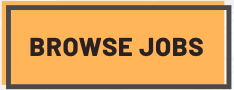
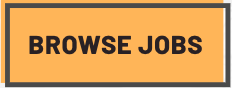
1/6

Changed region(s): [[0.0, 0.0, 0.9957, 1.0], [0.1207, 0.3864, 0.875, 0.6364]]

diff --git a/style/mob.css b/style/mob.css
@@ -27,8 +27,8 @@ hr {
   width: 100%;
   height: 35vh;
   background: url("../src/HRBreakoutRoom_files/20210126_223132_0001.png");
-  background-position: center;
-  background-size: 100% 100%;
+  background-position: 75% 50%;
+  background-size: cover;
 }
 
 .first-box nav {
@@ -87,8 +87,14 @@ hr {
   width: 100%;
 }
 
-.first-box #banner .banner-details #clicks img {
+.first-box #banner .banner-details #clicks a {
   width: 40%;
+  height: inherit;
+}
+
+.first-box #banner .banner-details #clicks a img {
+  width: 40%;
+  height: inherit;
 }
 
 .sec-box {
@@ -187,6 +193,8 @@ hr {
 .sec-box #core-service #serv-pics div {
   padding: 1rem;
   width: 100%;
+  -o-object-fit: cover;
+     object-fit: cover;
 }
 
 .sec-box #core-service #serv-pics div h3 {
@@ -304,7 +312,7 @@ hr {
 }
 
 .fourth-box #meet-the-team #team-pics div {
-  padding: 2rem;
+  padding: 1rem;
   width: 25%;
 }
 
@@ -315,7 +323,7 @@ hr {
 }
 
 .fourth-box #meet-the-team #team-pics div h3 {
-  font-size: 1.8rem;
+  font-size: 1.6rem;
   font-weight: 600;
 }
 
@@ -326,11 +334,11 @@ hr {
 
 .fourth-box #meet-the-team #team-pics div p {
   font-size: 1.6rem;
+  text-align: justify;
 }
 
 .fifth-box {
   width: 100%;
-  padding-bottom: 2vh;
   background: -webkit-gradient(linear, left top, left bottom, from(rgba(255, 255, 255, 0.9)), to(rgba(255, 255, 255, 0.9)));
   background: linear-gradient(rgba(255, 255, 255, 0.9), rgba(255, 255, 255, 0.9));
 }
@@ -354,7 +362,7 @@ hr {
 }
 
 .fifth-box #testimonials #testi-pics div {
-  padding: 4rem;
+  padding: 4rem 4rem 0 4rem;
   min-width: 40%;
 }
 
@@ -716,17 +724,17 @@ footer .contact-us .contact .schedule button {
   }
   .fifth-box {
     width: 100%;
-    height: 110vh;
-    padding-bottom: 10vh;
+    padding-bottom: 5vh;
     background: -webkit-gradient(linear, left top, left bottom, from(rgba(255, 255, 255, 0.9)), to(rgba(255, 255, 255, 0.9)));
     background: linear-gradient(rgba(255, 255, 255, 0.9), rgba(255, 255, 255, 0.9));
   }
   .fifth-box #testimonials {
     text-align: center;
+    height: auto;
   }
   .fifth-box #testimonials h1 {
     font-size: 8rem;
-    padding: 15rem 0 0;
+    padding: 10rem 0 0;
   }
   .fifth-box #testimonials #testi-pics {
     display: -webkit-box;
@@ -860,7 +868,7 @@ footer .contact-us .contact .schedule button {
     padding: 2rem 2rem;
   }
   footer .contact-us .contact h2 {
-    font-size: 2.4rem;
+    font-size: 2.2rem;
     font-weight: 400;
   }
   footer .contact-us .contact p {

diff --git a/style/mob.scss b/style/mob.scss
@@ -33,8 +33,8 @@ hr {
   height: 35vh;
   //   background: url("../src/HRBreakoutRoom_files/20210126_223132_0001.png");
   background: url("../src/HRBreakoutRoom_files/20210126_223132_0001.png");
-  background-position: center;
-  background-size: 100% 100%;
+  background-position: 75% 50%;
+  background-size: cover;
   //   border-bottom: 5px solid #000000;
 
   nav {
@@ -78,8 +78,13 @@ hr {
         }
       }
       #clicks {
-        img {
+        a {
           width: 40%;
+          height: inherit;
+          img {
+            width: 40%;
+            height: inherit;
+          }
         }
       }
     }
@@ -163,6 +168,7 @@ hr {
       div {
         padding: 1rem;
         width: 100%;
+        object-fit: cover;
         h3 {
           font-size: 2.1rem;
           font-weight: 700;
@@ -263,7 +269,7 @@ hr {
       display: flex;
       padding: 2rem 2rem 4rem;
       div {
-        padding: 2rem;
+        padding: 1rem;
         width: 25%;
         img {
           width: 60%;
@@ -271,7 +277,7 @@ hr {
           border: 8px #dddddd Solid;
         }
         h3 {
-          font-size: 1.8rem;
+          font-size: 1.6rem;
           font-weight: 600;
         }
         h4 {
@@ -280,6 +286,7 @@ hr {
         }
         p {
           font-size: 1.6rem;
+          text-align: justify;
         }
       }
     }
@@ -290,7 +297,7 @@ hr {
 .fifth-box {
   width: 100%;
   //   height: 110vh;
-  padding-bottom: 2vh;
+  //   padding-bottom: 2vh;
 
   background: linear-gradient(
     rgba(255, 255, 255, 0.9),
@@ -310,7 +317,7 @@ hr {
       width: 100%;
       //   padding: 10rem;
       div {
-        padding: 4rem;
+        padding: 4rem 4rem 0 4rem;
         min-width: 40%;
         img {
           width: 15vw;
@@ -668,8 +675,8 @@ footer {
   }
   .fifth-box {
     width: 100%;
-    height: 110vh;
-    padding-bottom: 10vh;
+    // height: 110vh;
+    padding-bottom: 5vh;
 
     background: linear-gradient(
       rgba(255, 255, 255, 0.9),
@@ -678,9 +685,10 @@ footer {
     // url("../src/HRBreakoutRoom_files/s3.jpg");
     #testimonials {
       text-align: center;
+      height: auto;
       h1 {
         font-size: 8rem;
-        padding: 15rem 0 0;
+        padding: 10rem 0 0;
       }
       #testi-pics {
         display: flex;
@@ -796,7 +804,7 @@ footer {
         padding: 2rem 2rem;
 
         h2 {
-          font-size: 2.4rem;
+          font-size: 2.2rem;
           font-weight: 400;
         }
         p {

diff --git a/index.html b/index.html
@@ -35,16 +35,13 @@
           </div>
           <div id="clicks">
             <a href="http://medium.com/@hrbreakoutroom">
-              <img
-                src="src/HRBreakoutRoom_files/readmore.png"
-                alt="read more"
-              />
+              <img src="src/HRBreakoutRoom_files/rmore.png" alt="read more" />
             </a>
-            <a href=""></a>
-            <img
-              src="src/HRBreakoutRoom_files/browse jobs.png"
-              alt="browse jobs"
-            />
+            <a href=""
+              ><img
+                src="src/HRBreakoutRoom_files/browse jobs.png"
+                alt="browse jobs"
+            /></a>
           </div>
         </div>
 
